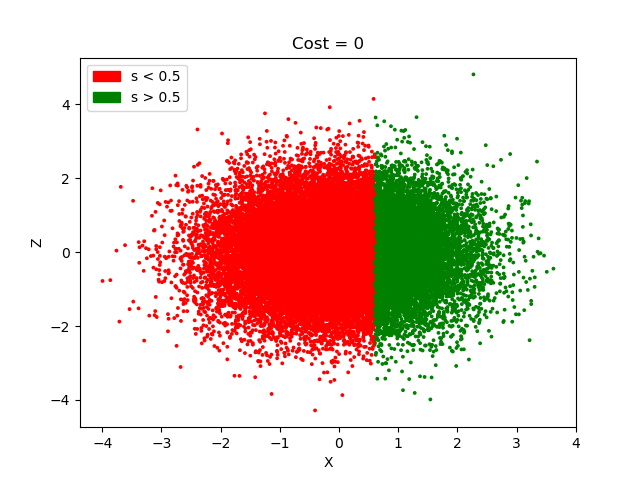
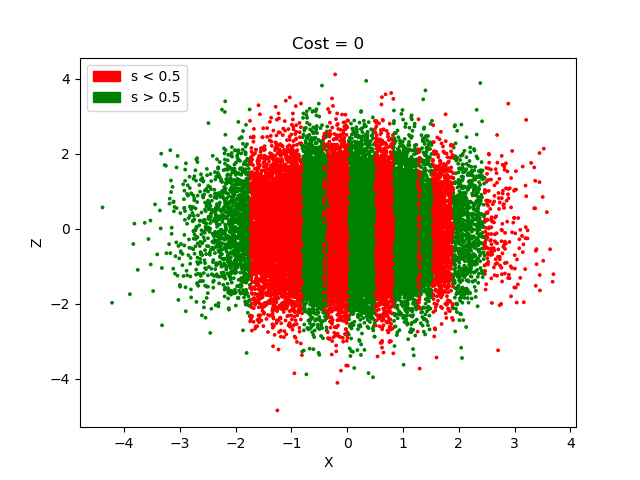
hi

diff --git a/synthetic.py b/synthetic.py
@@ -11,17 +11,41 @@ import numpy as np
 
 
 class linear(torch.nn.Module):
-    def __init__(self, feat_dim=1, out_dim=2, hidden_dim=1000):
+    def __init__(self, feat_dim=1, out_dim=2, hidden_dim=100):
         super(linear, self).__init__()
         self.hidden_dim=hidden_dim
         self.y1 = torch.nn.Linear(feat_dim, out_dim + 1)
+
+        # self.y1_in = torch.nn.Linear(feat_dim, hidden_dim)
+        # self.y1_out = torch.nn.Linear(hidden_dim, out_dim+1)
+        # self.y2_in = torch.nn.Linear(feat_dim, hidden_dim)
+        # self.y2_out = torch.nn.Linear(hidden_dim, out_dim)
+        # self.relu = torch.nn.ReLU()
+
+        self.y1_in = torch.nn.Linear(feat_dim, hidden_dim)
+        self.y1_out = torch.nn.Linear(hidden_dim, out_dim)
+        self.y2_in = torch.nn.Linear(feat_dim, hidden_dim)
+        self.y2_out = torch.nn.Linear(hidden_dim, out_dim)
+        self.relu = torch.nn.ReLU()
+
+        self.s_in = torch.nn.Linear(feat_dim, hidden_dim)
+        self.s_out = torch.nn.Linear(hidden_dim, 1)
+
         self.y2 = torch.nn.Linear(feat_dim*2, out_dim)
+        self.y2 = torch.nn.Linear(feat_dim, out_dim)
+
         self.Softmax = torch.nn.Softmax()
     def forward(self, x,z):
-        y1 = self.Softmax(self.y1(x))
-        y2 = self.Softmax(self.y2(torch.concatenate((x,z), dim=1)))
-        s = y1[:,-1].reshape((len(y1), 1))
-        y1 = y1[:, :-1]
+        # y1 = self.Softmax(self.y1(x))
+        # # y2 = self.Softmax(self.y2(torch.concatenate((x,z), dim=1)))
+        # y2 = self.Softmax(self.y2(x+z))
+
+        y1 = self.Softmax(self.y1_out(self.relu(self.y1_in(x))))
+        y2 = self.Softmax(self.y2_out(self.relu(self.y2_in(x+z))))
+
+        # s = y1[:,-1].reshape((len(y1), 1))
+        # y1 = y1[:, :-1]
+        s = self.relu(self.s_out(self.relu(self.s_in(x))))
         # print(y1.shape)
         return y1, y2, s
 
@@ -67,7 +91,7 @@ class mlp(torch.nn.Module):
         y1_out = self.Softmax(self.act(self.y1_out(y1_in)))
         return y1_out
 
-def loss_fn(x,z,y,cost,y1,y2, K=2, joint=True):
+def loss_fn(x,z,y,cost,y1,y2, K=2, joint=True, CE=False):
    
     # breakpoint()
     # r = s(torch.cat((p1,x), dim=1))[:,1]
@@ -79,6 +103,10 @@ def loss_fn(x,z,y,cost,y1,y2, K=2, joint=True):
     ##  termr: items which depend on p_r
     ##  termsum: the sum item
     # print(y)
+    if CE:
+        p1, p2, s = y1(x,z)
+        print('returning CE')
+        return torch.nn.CrossEntropyLoss(reduction='sum')(p2,y)
     if joint:
         p1, p2, s = y1(x,z)
         # termy = torch.zeros((len(p1)))
@@ -88,19 +116,33 @@ def loss_fn(x,z,y,cost,y1,y2, K=2, joint=True):
         #     termy[k] = -torch.log(p1[k,np.argmax(y[k])]) -torch.log(p2[k, np.argmax(y[k])]) 
 
         # termy = torch.nn.CrossEntropyLoss()(p2,y) + torch.nn.CrossEntropyLoss()(p1[:, :-1], y)
-        termy = torch.nn.CrossEntropyLoss()(p2,y) + torch.nn.CrossEntropyLoss()(p1, y)
+        # termy = torch.nn.CrossEntropyLoss(reduction='sum')(p2,y) + torch.nn.CrossEntropyLoss(reduction='sum')(p1, y)
+        termy = 0
 
 
-        termr = -torch.log(s[:,-1]) - (1+cost*(len(p1[0])-1))*torch.log(1-s[:,-1])
+        for i in range(len(y)):
+            # a = ys.argmax()
+            # print(ys)
+            termy += -torch.log(p1[i,int(y[i,1])]) - torch.log(p2[i,int(y[i,1])])
+            # print(p1[int(ys[1])], p2[int(ys[1])])
 
+
+
+        termr = -torch.log(s[:,-1]) - (1+cost*(len(p1[0])))*torch.log(1-s[:,-1])
+        termr = torch.sum(termr)
         termsum = torch.zeros(len(p1))
 
         for k in range(len(p1[0])):
             termsum += torch.log(p1[:, k])
 
         termsum *= -cost
+        termsum = torch.sum(termsum)
         # print(torch.sum(termr), torch.sum(termsum), torch.sum(termy))
-        return torch.sum(5*termr + termsum + 100*termy)
+        # return torch.sum(termr + termsum + termy)
+
+        # print(termy, termr, termsum)
+        return termy + termr + termsum
+
         # return torch.sum(termr+termy)
         # return torch.sum(termy)
         # breakpoint()
@@ -197,23 +239,23 @@ def eval(x,z,y,cost,y1,y2, joint=True, debug=False):
     return {'acc y1': num_y1/len(p1), 'acc y2': num_y2/len(p2), 'good reject': num_good_rs/len(p1), 'bad reject': num_bad_rs/len(p1), 'good non-reject': num_good_nors/len(p1), 'bad non-reject': num_bad_nors/len(p1)}, {'p1': p1, 'p2': p2, 's': s[:, -1], 'x': x, 'y': y, 'z':z}
 # model = model()
 
-def exp(d=32*20, cost=0.01):
+def exp(train_d=32*20, test_d=32*20, cost=0.01):
 
 
     # d = 32*20
     # cost=0.01
     # cost = cost
 
-    c = torch.ones(d)*cost
+    c = torch.ones(train_d)*cost
 
     # x = torch.normal(mean=torch.zeros((1, d)), std=torch.ones((1, d)))
     # z = torch.normal(mean=torch.zeros((1, d)), std=torch.ones((1, d)))
 
-    x = torch.normal(mean=torch.zeros((d,1)), std=torch.ones((d,1)))
-    z = torch.normal(mean=torch.zeros((d,1)), std=torch.ones((d,1)))
+    x = torch.normal(mean=torch.zeros((train_d,1)), std=torch.ones((train_d,1)))
+    z = torch.normal(mean=torch.zeros((train_d,1)), std=torch.ones((train_d,1)))
 
-    y = (torch.ones((d, 1)) * torch.bernoulli(torch.nn.Sigmoid()(x*z))).type(torch.LongTensor)
-    new_y = torch.zeros((d, 2))
+    y = (torch.ones((train_d, 1)) * torch.bernoulli(torch.nn.Sigmoid()(x+z))).type(torch.LongTensor)
+    new_y = torch.zeros((train_d, 2))
     for i in range(len(y)):
         if y[i] == 0:
             new_y[i] = torch.tensor([1,0])
@@ -228,12 +270,12 @@ def exp(d=32*20, cost=0.01):
     #     y[int(1-torch.bernoulli(torch.nn.Sigmoid()(x[i]+z[i])))] = 0
     # y = torch.ones((d, 1))
 
-    x_val = torch.normal(mean=torch.zeros((d,1)), std=torch.ones((d,1)))
-    z_val = torch.normal(mean=torch.zeros((d,1)), std=torch.ones((d,1)))
+    x_val = torch.normal(mean=torch.zeros((train_d,1)), std=torch.ones((train_d,1)))
+    z_val = torch.normal(mean=torch.zeros((train_d,1)), std=torch.ones((train_d,1)))
 
-    y_val = torch.ones((d, 1)) * torch.bernoulli(torch.nn.Sigmoid()(x*z))
-    y_val = torch.ones((d, 1))
-    new_y = torch.zeros((d, 2))
+    y_val = torch.ones((train_d, 1)) * torch.bernoulli(torch.nn.Sigmoid()(x_val+z_val))
+
+    new_y = torch.zeros((train_d, 2))
     for i in range(len(y_val)):
         if y_val[i] == 0:
             new_y[i] = torch.tensor([1,0])
@@ -246,12 +288,12 @@ def exp(d=32*20, cost=0.01):
     #     y_val[int(torch.bernoulli(torch.nn.Sigmoid()(x_val[i]+z_val[i])))] = 1
     #     y_val[int(1-torch.bernoulli(torch.nn.Sigmoid()(x_val[i]+z_val[i])))] = 0
 
-    x_test = torch.normal(mean=torch.zeros((d*100,1)), std=torch.ones((d*100,1)))
-    z_test = torch.normal(mean=torch.zeros((d*100,1)), std=torch.ones((d*100,1)))
-
-    y_test = torch.ones((d, 1)) * torch.bernoulli(torch.nn.Sigmoid()(x*z))
-
-    new_y = torch.zeros((d, 2))
+    x_test = torch.normal(mean=torch.zeros((test_d,1)), std=torch.ones((test_d,1)))
+    z_test = torch.normal(mean=torch.zeros((test_d,1)), std=torch.ones((test_d,1)))
+    # print('l. 280', len(x_test))
+    y_test = torch.ones((test_d, 1)) * torch.bernoulli(torch.nn.Sigmoid()(x_test+z_test))
+    # print('l. 282', len(y_test))
+    new_y = torch.zeros((test_d, 2))
     for i in range(len(y_test)):
         if y_test[i] == 0:
             new_y[i] = torch.tensor([1,0])
@@ -259,6 +301,7 @@ def exp(d=32*20, cost=0.01):
             new_y[i] = torch.tensor([0,1])
 
     y_test = new_y
+    # print('l. 291', len(y_test))
 
 
 
@@ -278,15 +321,15 @@ def exp(d=32*20, cost=0.01):
 
     epoch=1
     batch_size=32
-    optimizer = torch.optim.Adam(jm.parameters(), lr=0.01)
-    scheduler = torch.optim.lr_scheduler.ExponentialLR(optimizer, gamma=0.9)
+    optimizer = torch.optim.Adam(jm.parameters(), lr=0.0001)
+    scheduler = torch.optim.lr_scheduler.ExponentialLR(optimizer, gamma=0.99)
 
     # breakpoint()
     # start_params = list(y1.parameters().clone()) + list(y2.parameters().clone())
     running_loss = 0
     from tqdm import tqdm
     for i in range(epoch):
-        for batch in tqdm(range(batch_size, d+batch_size, batch_size)):
+        for batch in tqdm(range(batch_size, train_d+batch_size, batch_size)):
 
             x_batch = x[batch-batch_size:batch]
             z_batch = z[batch-batch_size:batch]
@@ -296,7 +339,8 @@ def exp(d=32*20, cost=0.01):
 
 
             # loss = loss_fn(x_batch, z_batch, y_batch, cost, y1, y2)
-            loss = loss_fn(x_batch, z_batch, y_batch, cost, jm, None)
+            # loss = loss_fn(x_batch, z_batch, y_batch, cost, jm, None)
+            loss = loss_fn(x_batch, z_batch, y_batch, cost, jm, None, CE=False)
 
             loss.backward()
             # for i,p in enumerate(jm.parameters()):
@@ -304,13 +348,14 @@ def exp(d=32*20, cost=0.01):
             optimizer.step()
 
             running_loss += loss.item()
-            if batch % 100 == 0:
+            if batch % 50 == 0:
                 # last_loss = running_loss / 320 # loss per batch
                 # print('  batch {} loss: {}'.format(batch/batch_size, loss))
               
                 valid, ___ = eval(x_val[batch-batch_size:batch], z_val[batch-batch_size:batch], y_val[batch-batch_size:batch], cost, jm,None)
                 # print(valid)
-            scheduler.step()
+            # scheduler.step()
+    valid, ___ = eval(x_val[batch-batch_size:batch], z_val[batch-batch_size:batch], y_val[batch-batch_size:batch], cost, jm,None)
 
     result = {}
     # preds = torch.zeros((0, 6))
@@ -322,7 +367,7 @@ def exp(d=32*20, cost=0.01):
     zs = []
     for key in valid.keys():
         result[key] = []
-    for batch in range(batch_size, d+batch_size, batch_size):
+    for batch in range(batch_size, test_d+batch_size, batch_size):
 
         x_batch = x_test[batch-batch_size:batch]
         z_batch = z_test[batch-batch_size:batch]
@@ -351,7 +396,8 @@ def exp(d=32*20, cost=0.01):
 
 # costs = [0.001, 0.002, 0.005, 0.1, 0.2, 0.5, 1, 2, 5, 10]
 # costs = [0.01, 0.1, 1, 10, 1000]
-costs = [0, 0.1, 1, 10]
+# costs = [0, 0.1, 1, 10]
+# costs = [0, 0]
 # costs = list(np.arange(0, 1, 0.2))
 # costs = np.arange()
 # costs = [10000000]
@@ -359,7 +405,9 @@ costs = [0, 0.1, 1, 10]
 # costs = [0.00001, 0.00002, 0.00005, 0.0001, 0.0002, 0.0005, 0.001, 0.002, 0.005]
 # costs = [0, 0, 0,0,0]
 # costs = [10000, 10000, 10000,10000]
-# costs = np.arange(0, 1, 0.01)
+# costs = np.arange(0, 0.1, 0.01)
+costs = [0, 0.05, 0.1, 1, 1000]
+# costs = np.arange(0, 1, 0.2)
 num_accept = []
 num_reject = []
 accept_acc = []
@@ -369,7 +417,7 @@ y2_acc = []
 l_sdd = []
 
 for cost in costs:
-    result, sdd, preds = exp(d=32*1000,cost=cost)
+    result, sdd, preds = exp(train_d = 32*10000, test_d = 32*1000,cost=cost)
     l_sdd.append(sdd)
     for key, value in result.items():
         try:
@@ -389,6 +437,7 @@ for cost in costs:
         else:
             colors.append('g')
     fig1, ax1 = plt.subplots()
+    # print(len(preds['x']))
     ax1.scatter(torch.stack(preds['x']), torch.stack(preds['z']), color = colors, s=3)
     ax1.set_title('Cost = ' + str(cost))
     ax1.set_xlabel('X')
@@ -401,45 +450,55 @@ for cost in costs:
     fig1.savefig('./' + str(cost)+'.png')
     # ax1.legend()
 
+# colors = []
+# for p in preds['y']:
+#         if p[1] == 1:
+#             colors.append('r')
+#         else:
+#             colors.append('g')
+# ax1.scatter(torch.stack(preds['x']), torch.stack(preds['z']), color = colors, s=3)
+# ax1.set_title('cringe')
+# ax1.set_xlabel('X')
+# ax1.set_ylabel('Z')
 
-# fig1, ax1 = plt.subplots()
+fig1, ax1 = plt.subplots()
 
-# ax1.plot(costs, y2_acc)
-# ax1.set_ylim(0, 1)
-# ax1.set_title("Y2 Accuracy (% of all predictions) vs. Cost")
+ax1.plot(costs, y2_acc)
+ax1.set_ylim(0, 1)
+ax1.set_title("Y2 Accuracy (% of all predictions) vs. Cost")
 
-# fig1, ax1 = plt.subplots()
+fig1, ax1 = plt.subplots()
 
-# ax1.plot(costs, y1_acc)
-# ax1.set_ylim(0, 1)
-# ax1.set_title("Y1 Accuracy (% of all predictions) vs. Cost")
+ax1.plot(costs, y1_acc)
+ax1.set_ylim(0, 1)
+ax1.set_title("Y1 Accuracy (% of all predictions) vs. Cost")
 
-# fig1, ax1 = plt.subplots()
+fig1, ax1 = plt.subplots()
 
-# ax1.plot(costs, num_accept)
-# ax1.set_title("Number of Y1-Accepts (% of all predictions) vs Cost")
-# ax1.set_ylim(0, 1)
-# # for i in range(len(accept_acc)):
-# #     # if i != 0 and np.abs(num_accept[i-1]-num_accept[i]) < 0.1:
-# #     #     plt.text(costs[i]+0.05, num_accept[i]+0.05, accept_acc[i])
-# #     # else:
-# #     #     plt.text(costs[i], num_accept[i], accept_acc[i])
-# #     plt.text(costs[i], num_accept[i], accept_acc[i])
-# # plt.text(6, 0.7, "Note: we show at each point \n [Correct Accepts]/[Incorrect Accepts] \n based on whether Y1 was correct")
-
-# fig1, ax1 = plt.subplots()
-# ax1.plot(costs, num_reject)
-# ax1.set_title("Number of Y1-Rejects (% of all predictions) vs Cost ")
-# ax1.set_ylim(0, 1)
-
-
-# for i in range(len(reject_acc)):
-#     # if i != 0 and np.abs(num_reject[i-1]-num_reject[i]) < 0.1:
-#     #     plt.text(costs[i]+0.05, num_reject[i]+0.05, reject_acc[i])
+ax1.plot(costs, num_accept)
+ax1.set_title("Number of Y1-Accepts (% of all predictions) vs Cost")
+ax1.set_ylim(0, 1)
+# for i in range(len(accept_acc)):
+#     # if i != 0 and np.abs(num_accept[i-1]-num_accept[i]) < 0.1:
+#     #     plt.text(costs[i]+0.05, num_accept[i]+0.05, accept_acc[i])
 #     # else:
-#     #     plt.text(costs[i], num_reject[i], reject_acc[i])
-#     plt.text(costs[i], num_reject[i], reject_acc[i])
-# plt.text(6, 0.7, "Note: we show at each point \n [Correct Rejects]/[Incorrect rejects] \n based on whether Y1 was correct")
+#     #     plt.text(costs[i], num_accept[i], accept_acc[i])
+#     plt.text(costs[i], num_accept[i], accept_acc[i])
+# plt.text(6, 0.7, "Note: we show at each point \n [Correct Accepts]/[Incorrect Accepts] \n based on whether Y1 was correct")
+
+fig1, ax1 = plt.subplots()
+ax1.plot(costs, num_reject)
+ax1.set_title("Number of Y1-Rejects (% of all predictions) vs Cost ")
+ax1.set_ylim(0, 1)
+
+
+for i in range(len(reject_acc)):
+    # if i != 0 and np.abs(num_reject[i-1]-num_reject[i]) < 0.1:
+    #     plt.text(costs[i]+0.05, num_reject[i]+0.05, reject_acc[i])
+    # else:
+    #     plt.text(costs[i], num_reject[i], reject_acc[i])
+    plt.text(costs[i], num_reject[i], reject_acc[i])
+plt.text(6, 0.7, "Note: we show at each point \n [Correct Rejects]/[Incorrect rejects] \n based on whether Y1 was correct")
 # d = 1000
 # x = torch.normal(mean=torch.zeros((d,1)), std=torch.ones((d,1)))
 # z = torch.normal(mean=torch.zeros((d,1)), std=torch.ones((d,1)))
